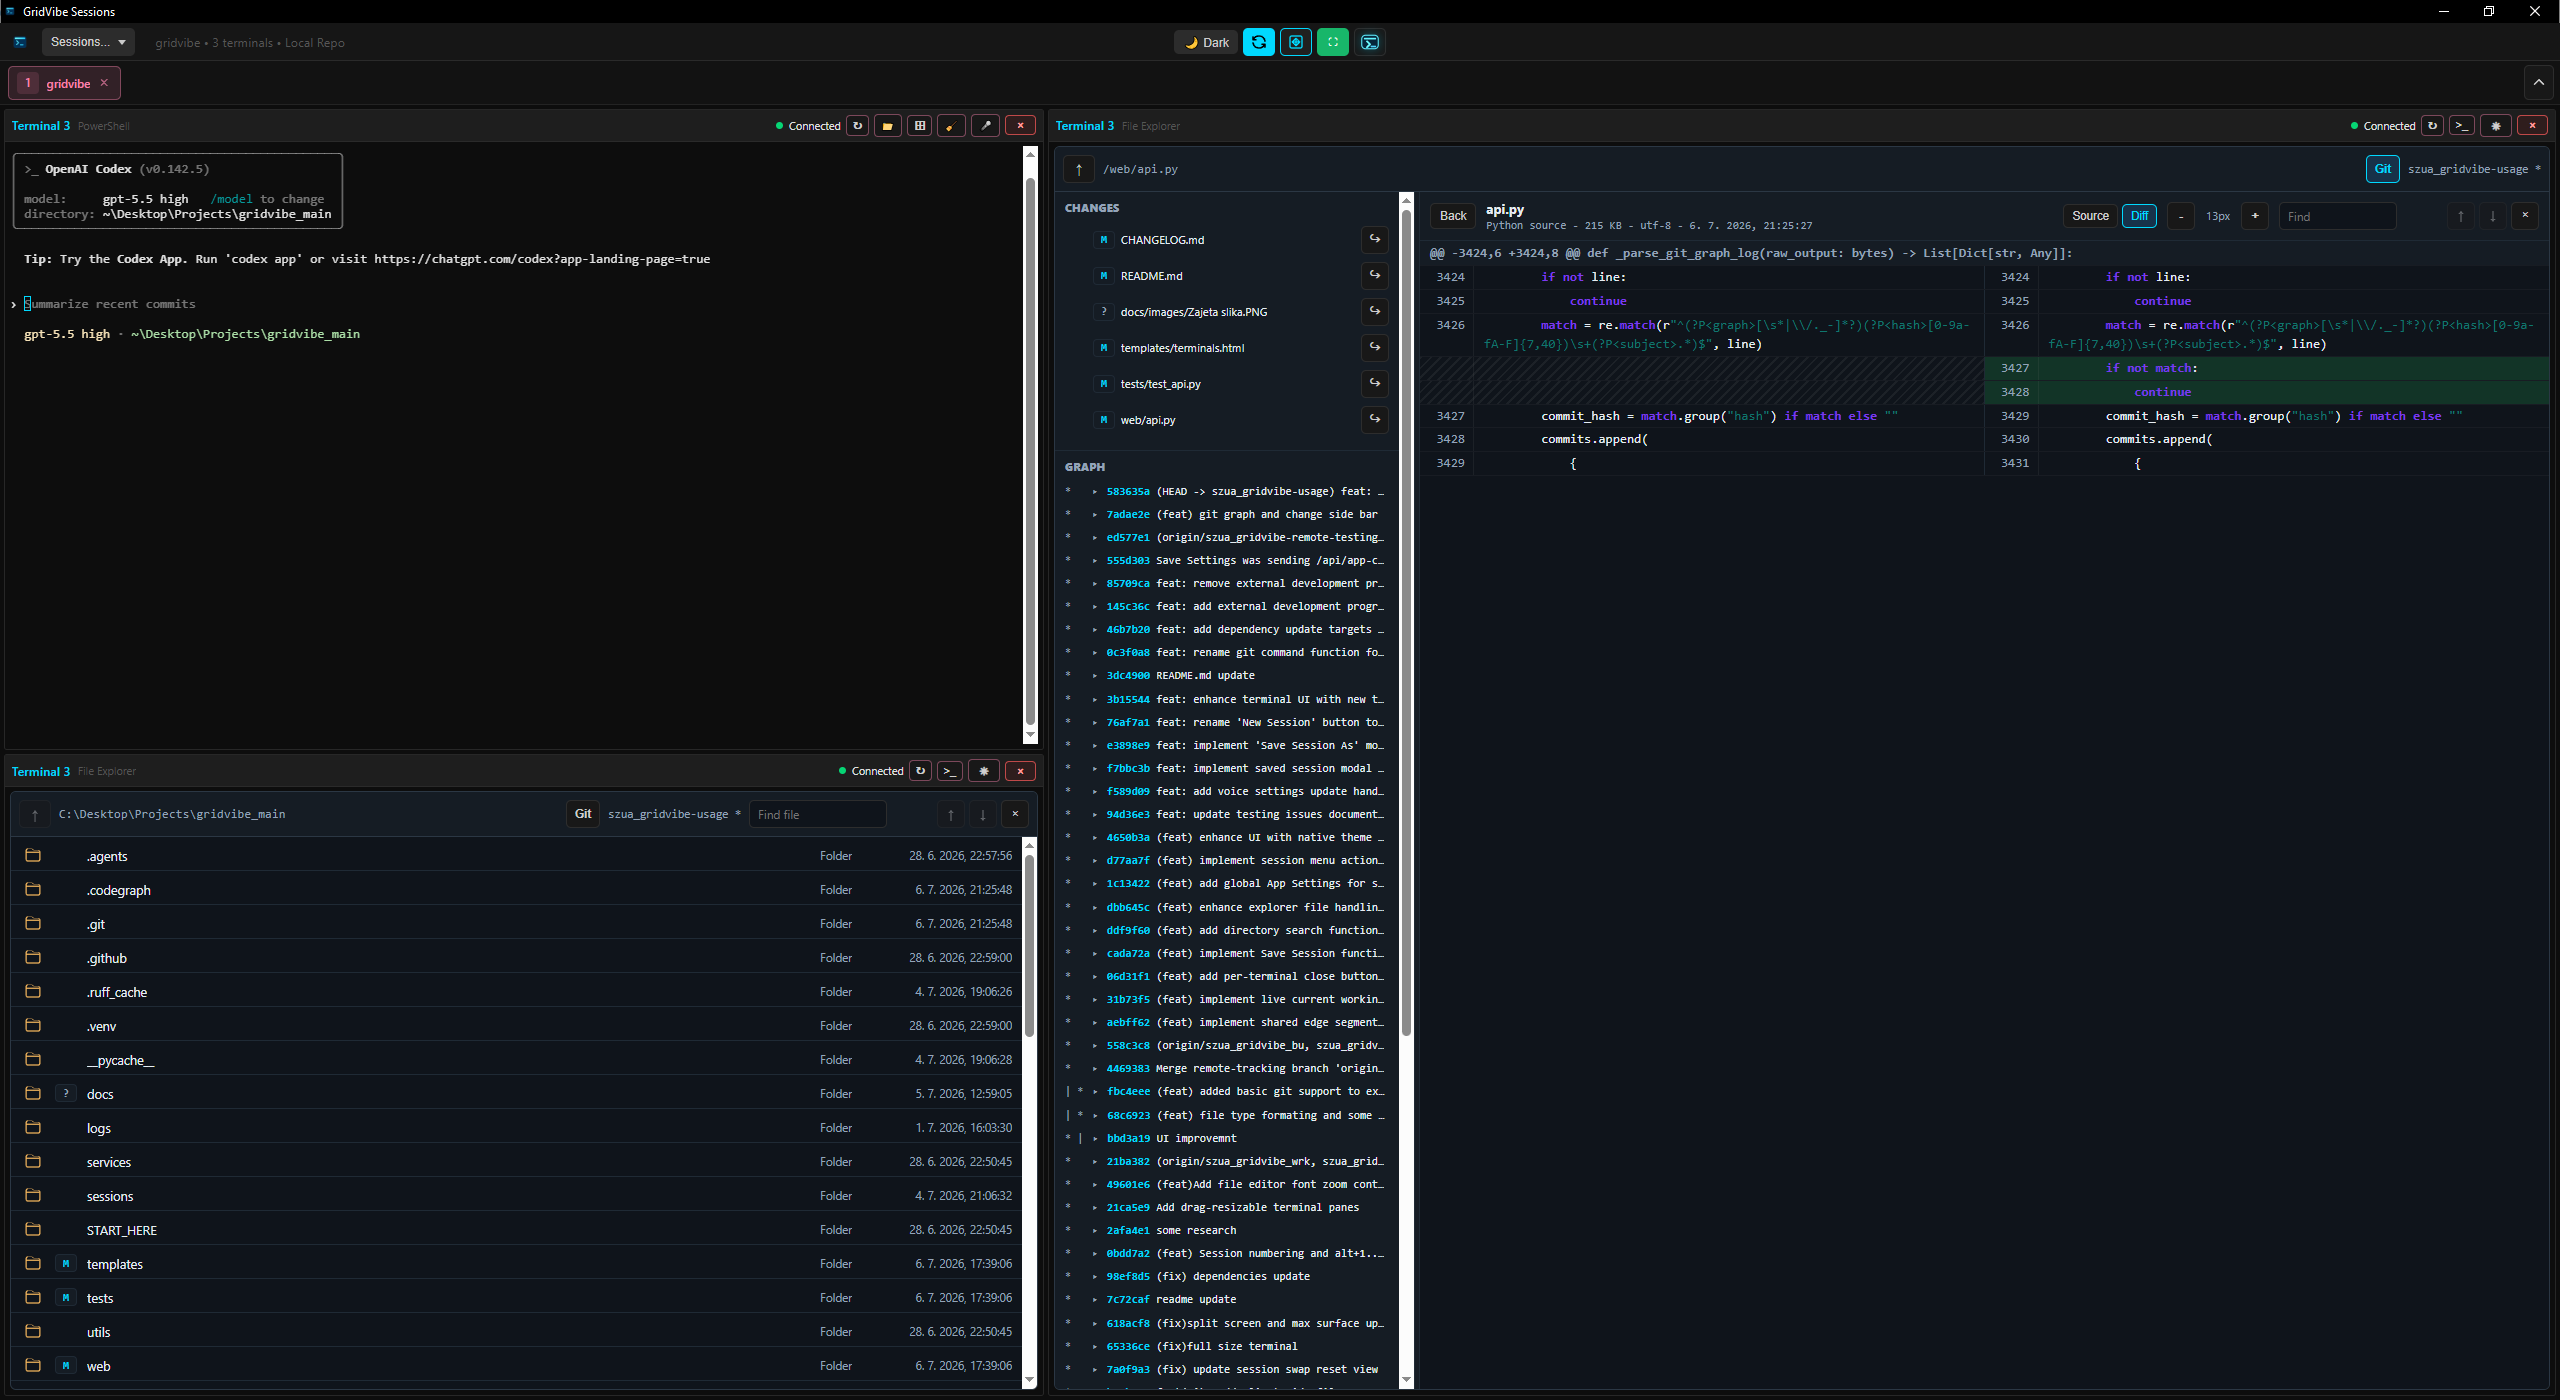
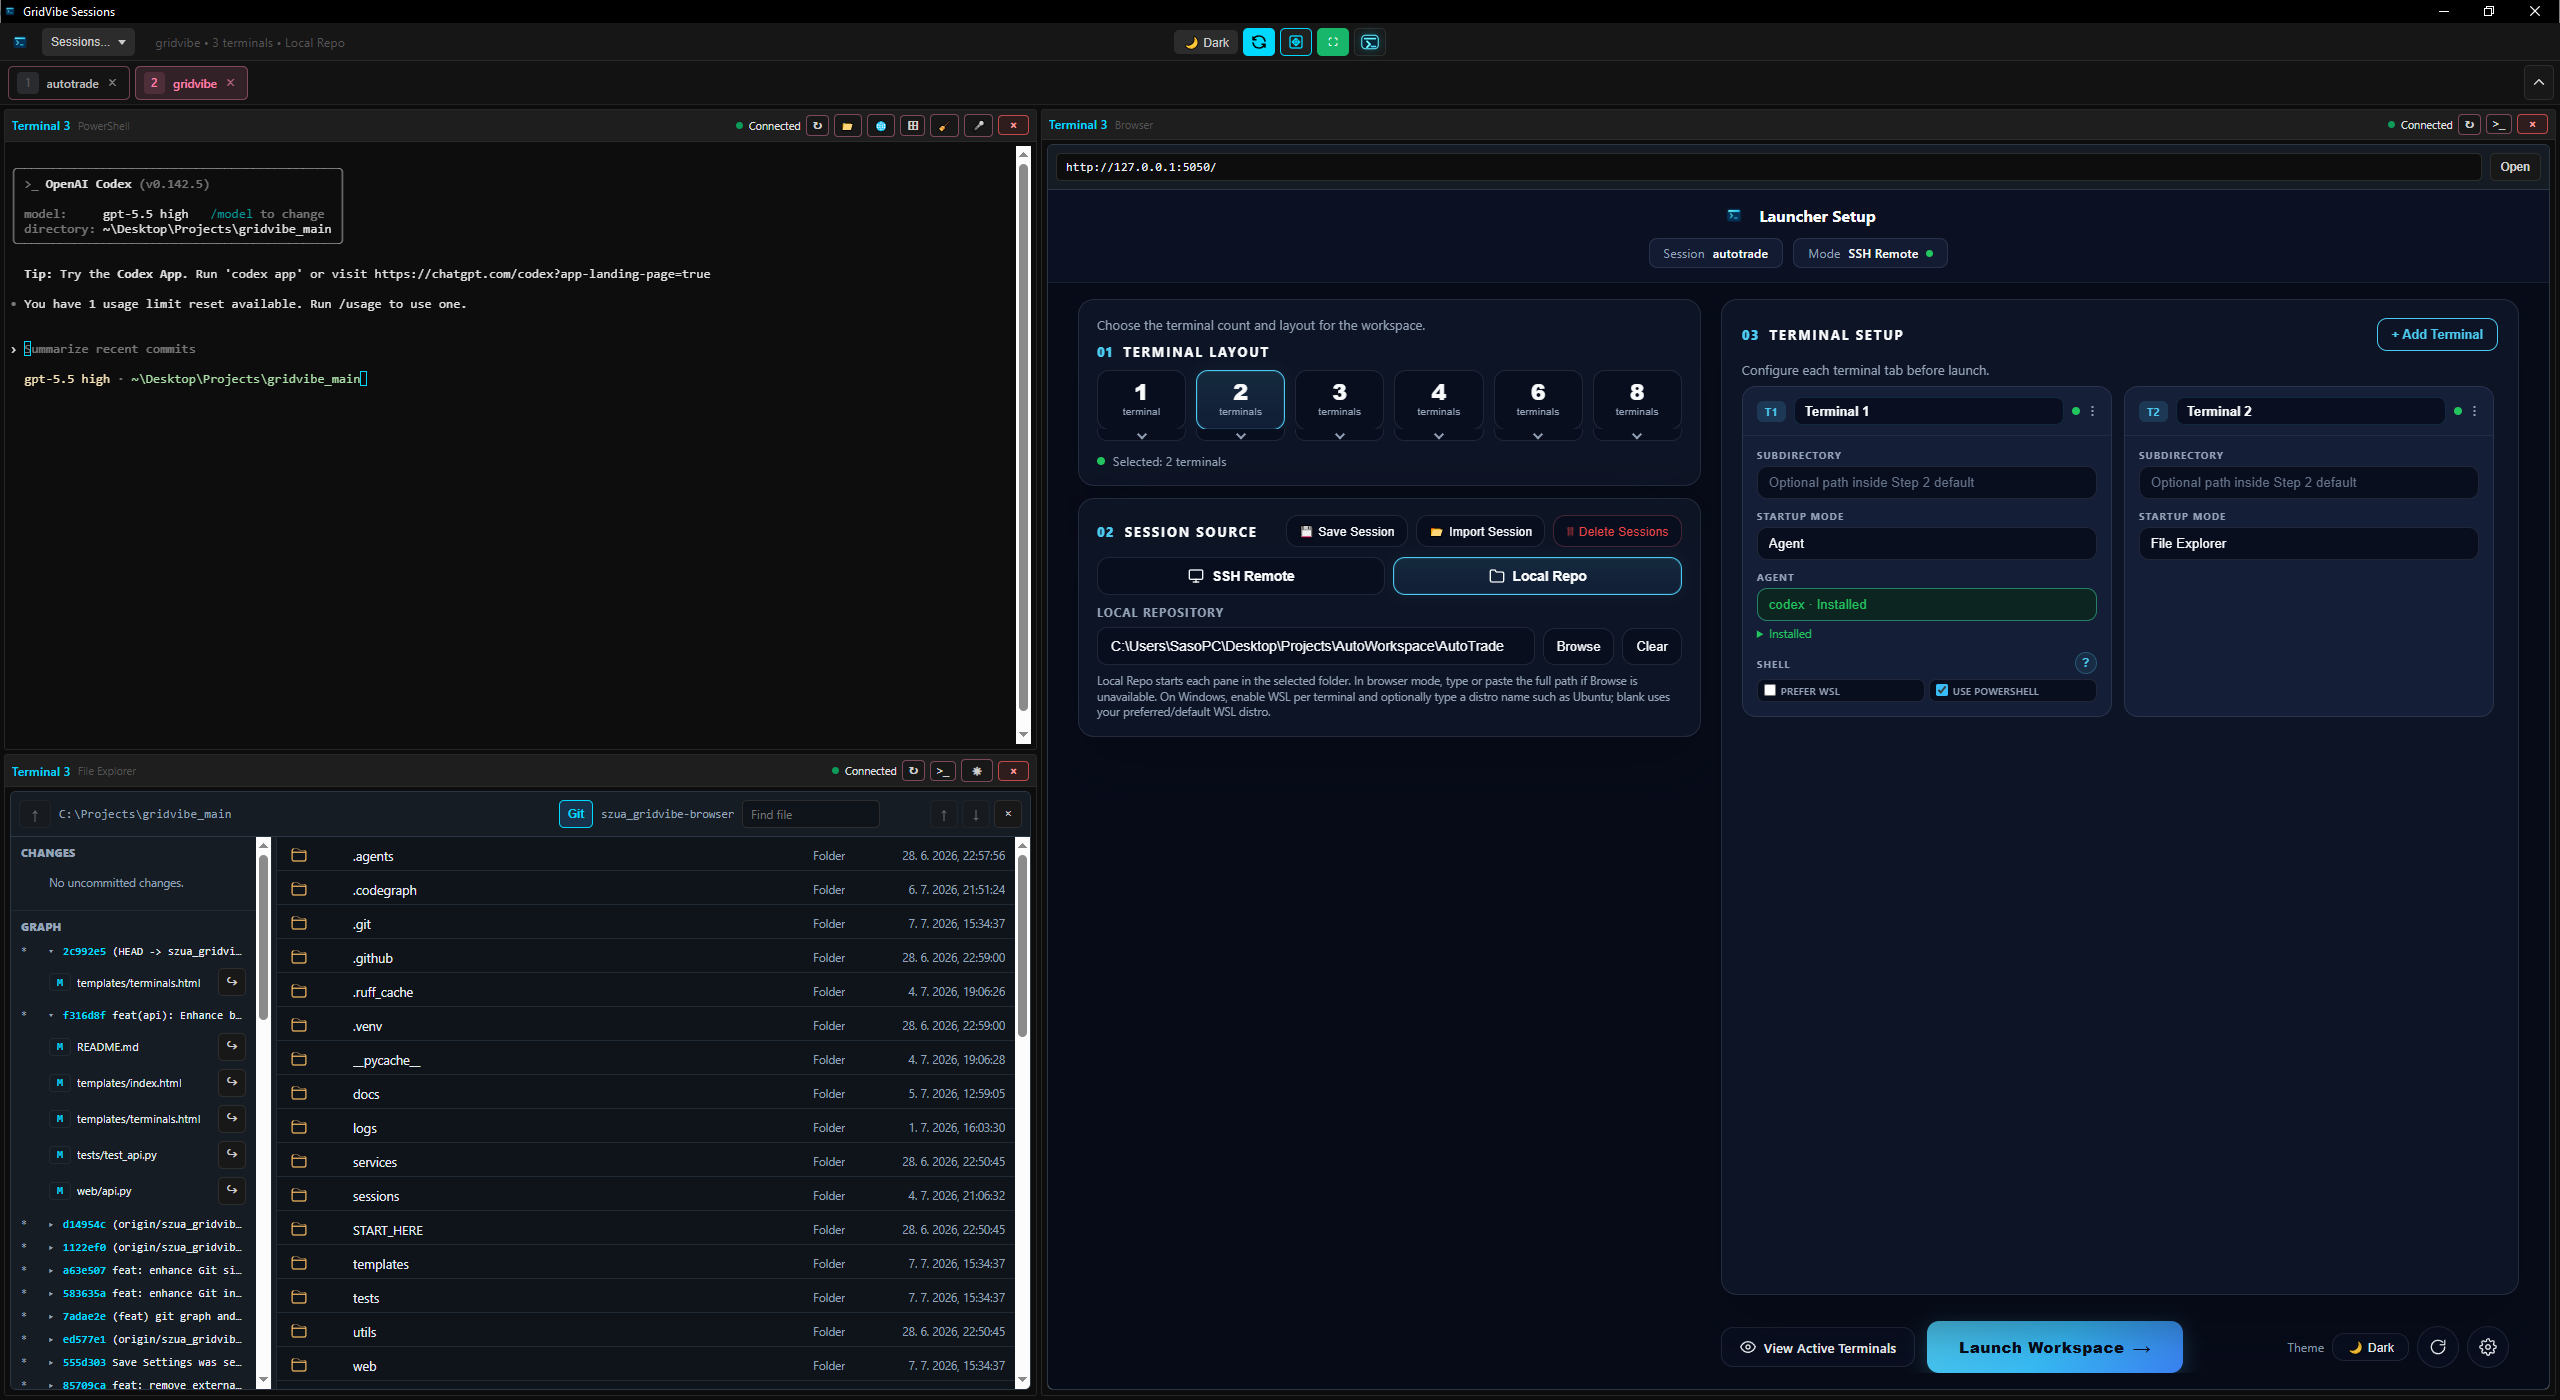
fix(api): improve logging for configuration load failures

diff --git a/web/api.py b/web/api.py
@@ -166,17 +166,24 @@ def load_config(config_path: Optional[str] = None) -> Dict[str, Any]:
         if target_path != DEFAULT_CONFIG_PATH and os.path.exists(DEFAULT_CONFIG_PATH):
             try:
                 default_config = _load_json_file(DEFAULT_CONFIG_PATH)
-            except (OSError, json.JSONDecodeError):
-                logger.exception("Failed to load default configuration from %s", DEFAULT_CONFIG_PATH)
+            except (OSError, json.JSONDecodeError) as exc:
+                logger.warning(
+                    "Failed to load default configuration from %s: %s",
+                    DEFAULT_CONFIG_PATH,
+                    exc,
+                )
+                logger.debug("Default configuration load failure details", exc_info=True)
 
         if os.path.exists(target_path):
             try:
                 loaded = _load_json_file(target_path)
-            except (OSError, json.JSONDecodeError):
-                logger.exception(
-                    "Failed to load configuration from %s; using default configuration",
+            except (OSError, json.JSONDecodeError) as exc:
+                logger.warning(
+                    "Failed to load configuration from %s: %s; using default configuration",
                     target_path,
+                    exc,
                 )
+                logger.debug("Configuration load failure details", exc_info=True)
                 return default_config
             return _merge_dicts(default_config, loaded) if default_config else loaded
 

diff --git a/tests/test_api.py b/tests/test_api.py
@@ -1682,13 +1682,18 @@ class ApiRoutesTestCase(unittest.TestCase):
             json.dumps({"appearance": {"theme": "system"}}),
             encoding="utf-8",
         )
-        broken_path = Path(self.temp_dir.name) / "config.json"
+        broken_path = Path(self.temp_dir.name) / "broken-config.json"
         broken_path.write_text('{"appearance": {"theme": "dark"}}\n}', encoding="utf-8")
 
         with patch.object(api, "DEFAULT_CONFIG_PATH", str(default_path)):
-            cfg = api.load_config(str(broken_path))
+            with self.assertLogs(api.logger, level="WARNING") as logs:
+                cfg = api.load_config(str(broken_path))
 
         self.assertEqual(cfg["appearance"]["theme"], "system")
+        self.assertTrue(
+            any("using default configuration" in message for message in logs.output),
+            logs.output,
+        )
 
     def test_voice_prefs_get_returns_defaults(self):
         response = self.client.get("/api/voice-prefs")